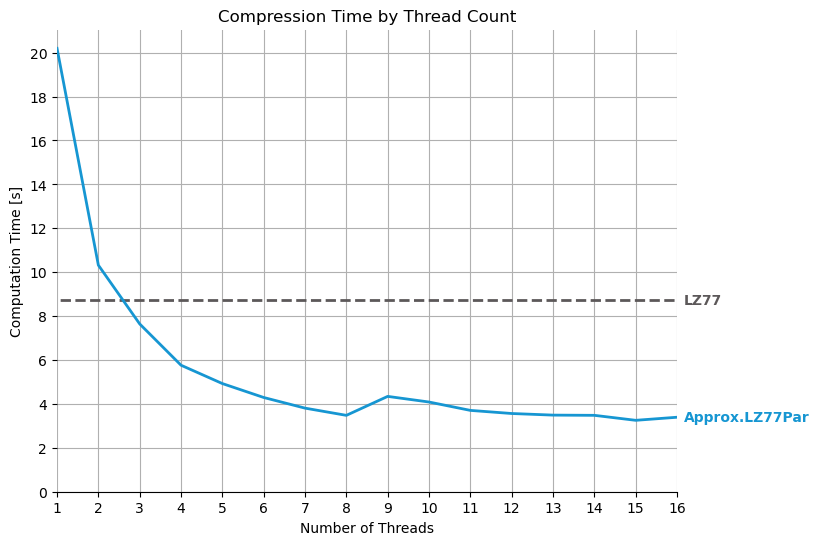
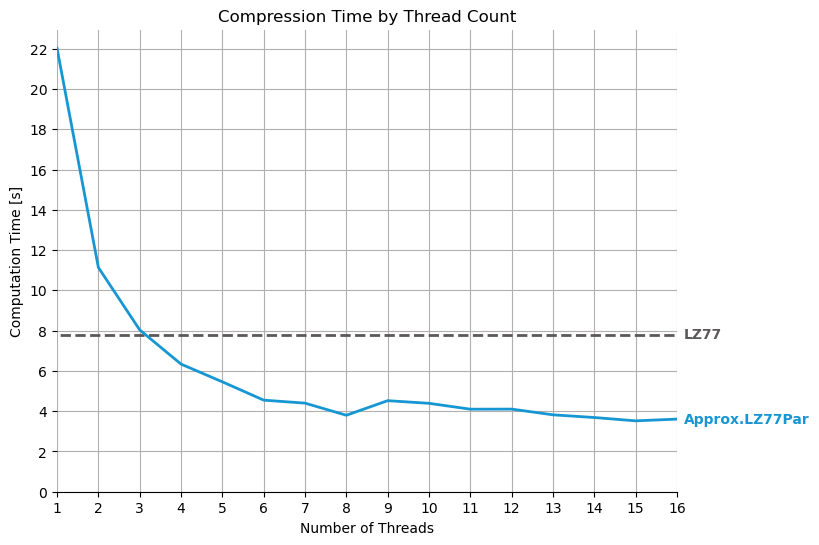
Updated Experiment-Data

diff --git a/README.md b/README.md
@@ -2,30 +2,30 @@
 
 Simple Collection of Prototypes of LZ-Algorithms:LZW, LZ77, Approx. LZ77 (seq+ par)
 
-## Experiment(Last Update: 08/07)
+## Experiment(Last Update: 10/07)
 
-### System = Codespace-P16 : Dynamic Start = On : Dynamic End = On : Table-Ratio: 3%
+### System = Codespace-P16, Dynamic Start = On, Dynamic End = On, Table-Ratio = 3%
 
 |File.Size|Algorithm|Ratio(Out/In)|Runtime[s]|Factors(#/In)|Mem([Byte]/In)|
 |---------------|---------------|:---------------:|:---------------:|:---------------:|:---------:|
-|dna.100MB|LZ77|48.31%|7.63|7.03%|20.00|
-|dna.100MB|Approx.LZ77|46.06%|11.03|11.17%|8.89|
-|dna.100MB|Approx.LZ77Par|46.06%|2.38|11.17%|7.42|
-|english.100MB|LZ77|46.75%|7.58|8.56%|20.00|
-|english.100MB|Approx.LZ77|44.42%|23.38|11.10%|8.79|
-|english.100MB|Approx.LZ77Par|44.42%|3.71|11.10%|6.89|
-|dblp.xml.100MB|LZ77|23.09%|6.75|4.63%|20.00|
-|dblp.xml.100MB|Approx.LZ77|27.28%|13.99|7.06%|4.04|
-|dblp.xml.100MB|Approx.LZ77Par|27.28%|2.36|7.06%|4.05|
-|sources.100MB|LZ77|38.15%|6.85|7.98%|20.00|
-|sources.100MB|Approx.LZ77|41.58%|17.52|10.93%|6.93|
-|sources.100MB|Approx.LZ77Par|41.58%|2.90|10.93%|6.31|
-|dummy.6018B|LZ77|16.85%|0.00|9.70%|20.00|
+|proteins.100MB|LZ77|80.20%|7.74|11.73%|20.00|
+|proteins.100MB|Approx.LZ77|70.53%|21.85|17.63%|14.77|
+|proteins.100MB|Approx.LZ77Par|70.53%|3.74|17.63%|14.65|
+|dummy.6018B|LZ77|16.53%|0.00|11.58%|20.00|
 |dummy.6018B|Approx.LZ77|20.41%|0.00|11.05%|8.65|
-|dummy.6018B|Approx.LZ77Par|20.41%|0.00|11.05%|8.06|
-|proteins.100MB|LZ77|69.21%|8.94|40.51%|27.52|
-|proteins.100MB|Approx.LZ77|70.53%|21.07|17.63%|14.77|
-|proteins.100MB|Approx.LZ77Par|70.53%|3.79|17.63%|14.65|
+|dummy.6018B|Approx.LZ77Par|20.41%|0.00|11.05%|8.03|
+|dblp.xml.100MB|LZ77|23.97%|6.55|3.64%|20.00|
+|dblp.xml.100MB|Approx.LZ77|27.28%|13.09|7.06%|4.04|
+|dblp.xml.100MB|Approx.LZ77Par|27.28%|2.17|7.06%|4.25|
+|dna.100MB|LZ77|48.31%|7.62|7.03%|20.00|
+|dna.100MB|Approx.LZ77|46.06%|11.53|11.17%|8.89|
+|dna.100MB|Approx.LZ77Par|46.06%|1.97|11.17%|7.42|
+|english.100MB|LZ77|48.23%|7.82|7.13%|20.00|
+|english.100MB|Approx.LZ77|44.42%|22.76|11.10%|8.79|
+|english.100MB|Approx.LZ77Par|44.42%|3.64|11.10%|6.56|
+|sources.100MB|LZ77|40.06%|6.88|6.07%|20.00|
+|sources.100MB|Approx.LZ77|41.58%|18.44|10.93%|6.93|
+|sources.100MB|Approx.LZ77Par|41.58%|3.23|10.93%|6.32|
 
 ## Thesis-Plan
 
@@ -46,13 +46,13 @@ Simple Collection of Prototypes of LZ-Algorithms:LZW, LZ77, Approx. LZ77 (seq+ p
 ### Phase 2:
 |Task               |Deadline   |Status  |Tested     |Last Update|
 |-------------------|:---------:|:------:|:---------:|:---------:|
-|Approx. LZ77(seq)  |-          |✔       |✅          |23/06      |
+|Approx. LZ77(seq)  |-          |✔       |✅          |10/07      |
 | -Rabin-Karp       |-          |✔       |✅          |17/06      |
 
 ---
 ### Phase 3:
 |Task               |Deadline   |Status  |Tested     |Last Update|
 |-------------------|:---------:|:------:|:---------:|:---------:|
-|Approx. LZ77(par)  |-          |⟳       |✅          |23/06      |
+|Approx. LZ77(par)  |-          |⟳       |✅          |10/07      |
 
 
